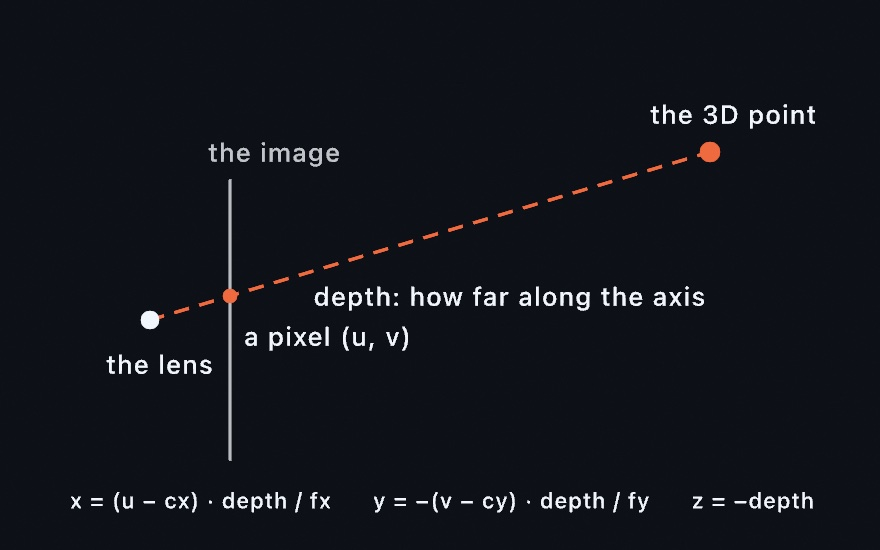
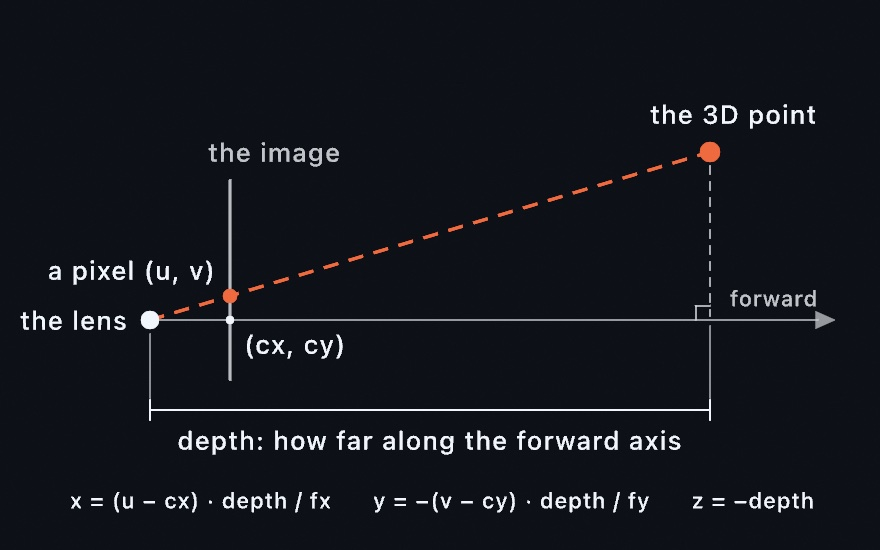
The unprojection diagram draws depth where it is measured, along the forward axis. Chapter 35 and Appendix B say a depth sensor measures along the camera's forward axis and not along the ray, and the figure labeled the ray "depth: how far along the axis" with no axis drawn. It now draws the forward 
Claude-Session: https://claude.ai/code/session_01WqLtBAH3GLezrn1E1FY2W7

diff --git a/Guide/Figures/35-Depth/Unproject.swift b/Guide/Figures/35-Depth/Unproject.swift
@@ -2,7 +2,8 @@
 //
 // Guide diagram (Chapter 35): unprojection. A pixel plus its depth becomes a
 // 3D point: slide off the image center, scale by depth over focal length,
-// and set it that far out along the lens axis.
+// and set it that far out along the forward axis. The depth is drawn where
+// it is measured, along that axis to the foot of the point, not along the ray.
 import Ollin
 import OllinDiagram
 
@@ -22,11 +23,29 @@ final class Unproject: Sketch {
         let lens = Vector2(150, 320)
         let pixel = Vector2(230, 296)
         let point = Vector2(710, 152)
+        let foot = Vector2(point.x, lens.y)
         let dir = (point - lens).normalized
 
-        // The image plane, and the pixel on it.
+        // The forward axis: out of the lens, through the image center.
+        stroke(theme.ink(0.35)); strokeWeight(2)
+        drawLine(lens.x, lens.y, 818, lens.y)
+        noStroke()
+        fill(theme.ink(0.35))
+        drawTriangle(834, lens.y, 816, lens.y - 8, 816, lens.y + 8)
+
+        // The image plane, with its center where the axis crosses it.
         stroke(ink.withAlpha(0.55)); strokeWeight(2.5)
-        drawLine(230, 180, 230, 460)
+        drawLine(230, 180, 230, 380)
+
+        // The drop from the point to the axis, square to it.
+        stroke(theme.ink(0.45)); strokeWeight(2)
+        var s = point.y + 14
+        while s < foot.y - 4 {
+            drawLine(foot.x, s, foot.x, min(s + 8, foot.y - 4))
+            s += 16
+        }
+        drawLine(foot.x - 14, foot.y, foot.x - 14, foot.y - 14)
+        drawLine(foot.x - 14, foot.y - 14, foot.x, foot.y - 14)
 
         // The ray, dashed, from the lens through the pixel out to the point.
         stroke(accent); strokeWeight(3)
@@ -38,27 +57,40 @@ final class Unproject: Sketch {
             drawLine(a.x, a.y, b.x, b.y)
             t += 26
         }
+
+        // Depth: a dimension line under the axis, from the lens to the foot.
+        let dim = 410.0
+        stroke(ink); strokeWeight(2)
+        drawLine(lens.x, dim, foot.x, dim)
+        drawLine(lens.x, dim - 10, lens.x, dim + 10)
+        drawLine(foot.x, dim - 10, foot.x, dim + 10)
+        stroke(theme.ink(0.3)); strokeWeight(1.5)
+        drawLine(lens.x, lens.y + 14, lens.x, dim - 12)
+        drawLine(foot.x, lens.y + 6, foot.x, dim - 12)
         noStroke()
 
-        // The lens, the pixel, the recovered 3D point.
+        // The lens, the image center, the pixel, the recovered 3D point.
         fill(ink)
         drawCircle(center: lens, radius: 9)
+        drawCircle(230, lens.y, 4)
         fill(accent)
         drawCircle(center: pixel, radius: 7)
         drawCircle(center: point, radius: 10)
 
-        // Depth: measured along the lens axis, labeled beside the ray.
-        let mid = pixel + (point - pixel) * 0.5
         fill(ink)
         textSize(26)
         textAlign(.center, .middle)
-        drawText("depth: how far along the axis", mid.x + 40, mid.y + 72)
+        drawText("depth: how far along the forward axis", (lens.x + foot.x) / 2, dim + 30)
+        textAlign(.right, .middle)
+        drawText("the lens", lens.x - 22, lens.y)
+        drawText("a pixel (u, v)", pixel.x - 14, pixel.y - 26)
         textAlign(.left, .middle)
         drawText("the 3D point", point.x - 60, point.y - 38)
-        drawText("the lens", lens.x - 44, lens.y + 44)
-        drawText("a pixel (u, v)", pixel.x + 14, pixel.y + 40)
+        drawText("(cx, cy)", 244, lens.y + 24)
         fill(ink.withAlpha(0.6))
         drawText("the image", 208, 152)
+        textSize(22)
+        drawText("forward", 730, lens.y - 22)
 
         // The recipe, in one line.
         fill(ink)

diff --git a/Guide/35-Depth.md b/Guide/35-Depth.md
@@ -36,7 +36,7 @@ One pixel plus one depth is a 3D point. The recipe fits in a sentence. Slide the
 
 <picture>
   <source media="(prefers-color-scheme: dark)" srcset="Images/35-Depth/Unproject-dark.jpg">
-  <img src="Images/35-Depth/Unproject.jpg" alt="A diagram of unprojection: a lens at the left, an image plane with a marked pixel, and a dashed ray extending out to a 3D point, with the recovered-coordinates formula below" width="680">
+  <img src="Images/35-Depth/Unproject.jpg" alt="A diagram of unprojection: a lens at the left with its forward axis running out to the right through the image center, an image plane with a marked pixel, and a dashed ray out through the pixel to a 3D point. A dotted line drops from the point square onto the axis, and a dimension line under the axis marks the depth from the lens to that foot, how far along the forward axis. The recovered-coordinates formula sits below" width="680">
 </picture>
 
 That's called **unprojection**, and the intrinsics are the numbers the recipe needs: `cx` and `cy` the image center, `fx` and `fy` the focal lengths. The depth is measured along the camera's forward axis, not along the ray. The camera looks down its own −z, so the point's `z` is minus the depth. You'll rarely unproject one pixel at a time yourself. `pointCloud()` unprojects every depth pixel it trusts, colors each from the color image, and hands the result back as a `PointCloud`. By default it trusts only pixels rated `.high`, and `minConfidence:` lowers the bar.

diff --git a/Guide/B-JustEnoughMath.md b/Guide/B-JustEnoughMath.md
@@ -721,7 +721,7 @@ A flat triangle faces one way, and the arrow standing straight out of it is its 
 
 <picture>
   <source media="(prefers-color-scheme: dark)" srcset="Images/35-Depth/Unproject-dark.jpg">
-  <img src="Images/35-Depth/Unproject.jpg" alt="A lens, an image plane with a marked pixel, and a dashed ray extending out to a 3D point, with the recovered-coordinates formula below" width="680">
+  <img src="Images/35-Depth/Unproject.jpg" alt="A lens with its forward axis, an image plane with a marked pixel, and a dashed ray out to a 3D point. A dotted drop from the point meets the axis square, and the depth is marked along the axis from the lens to that foot. The recovered-coordinates formula sits below" width="680">
 </picture>
 
 A camera flattens the world by sliding every point down a ray through the lens. A depth sensor records how far in front of the camera each pixel's surface was. It measures along the camera's forward axis, not along the ray. Unprojection runs the flattening backward. Slide the pixel off the image center, scale by depth over focal length, and the 3D point returns. So a flat photo plus a flat depth map holds the 3D shape of everything the camera saw. [Chapter 35](35-Depth.md) builds its point clouds with this recipe.
